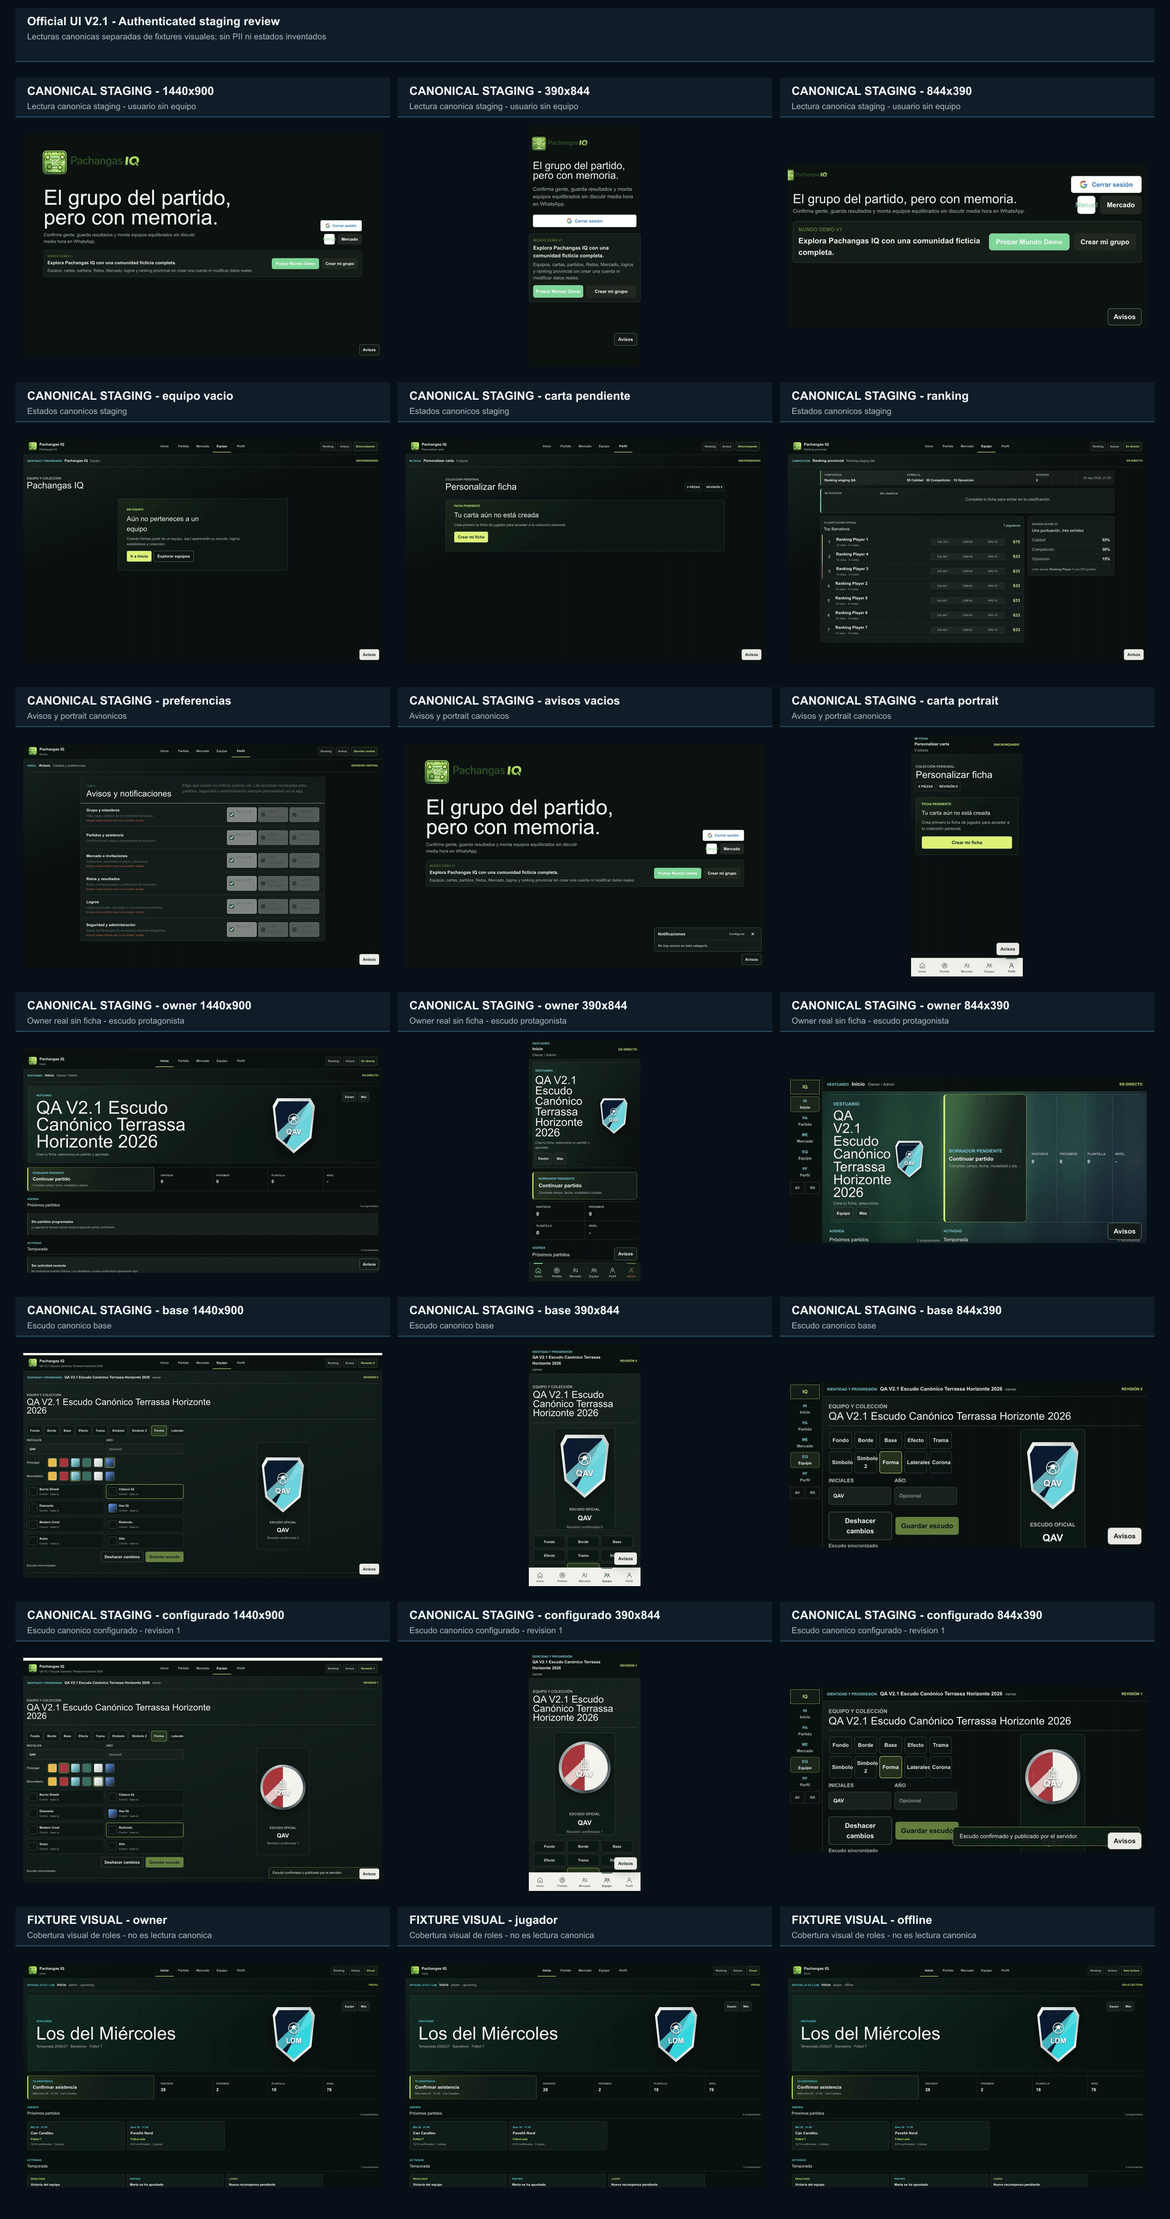
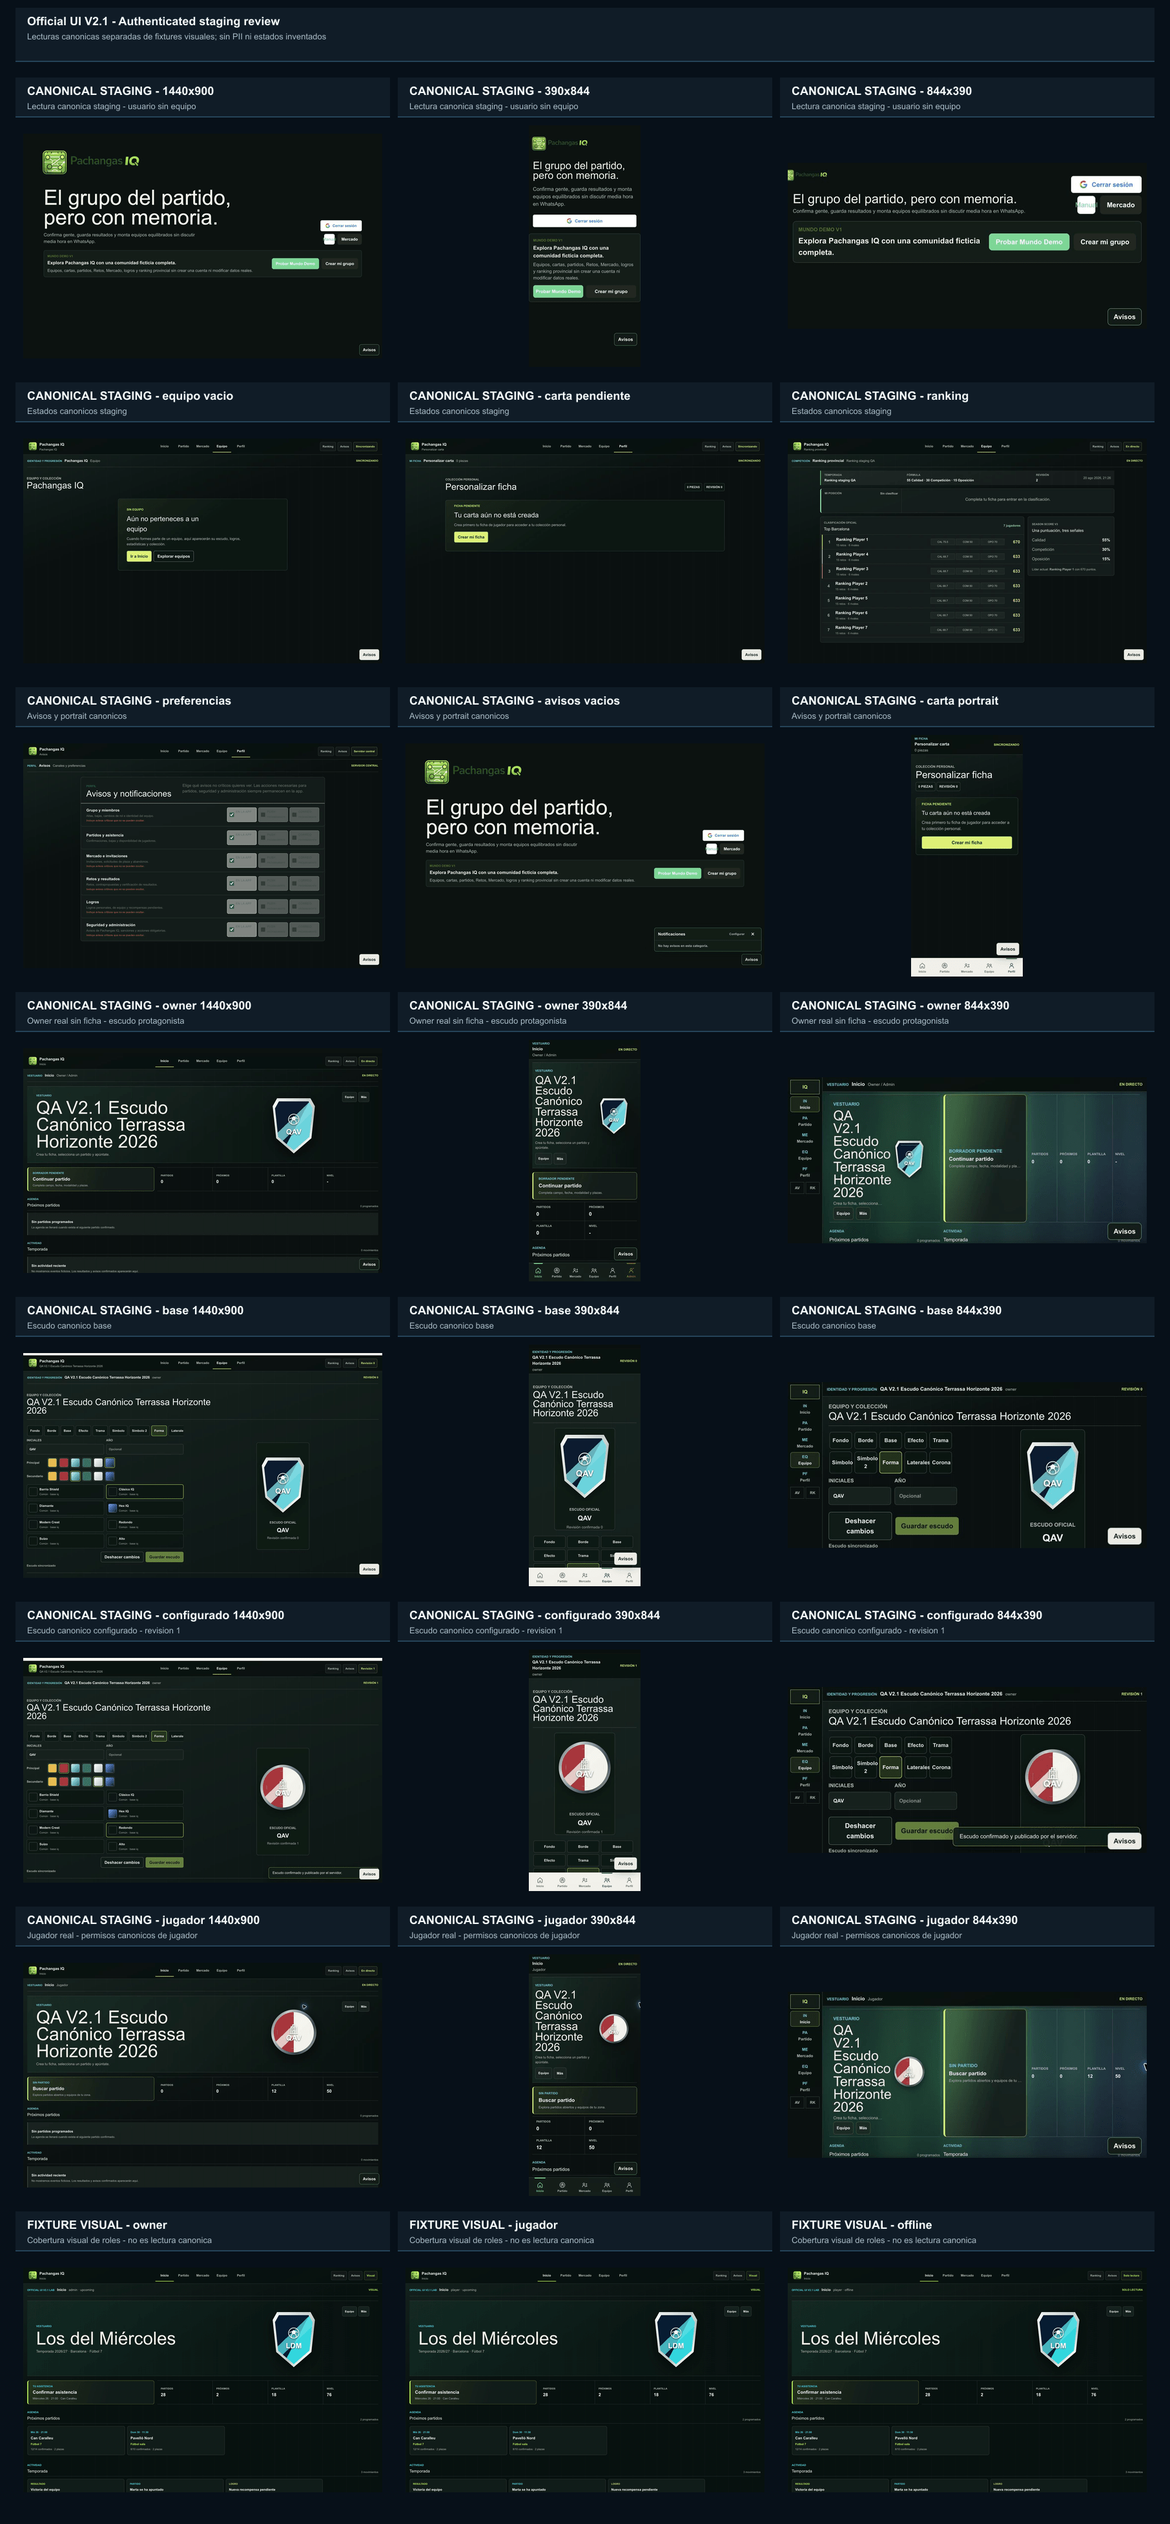
Complete Official UI V2.1 canonical player QA

diff --git a/OFFICIAL_UI_V2_1_AUTHENTICATED_QA_REPORT.md b/OFFICIAL_UI_V2_1_AUTHENTICATED_QA_REPORT.md
@@ -10,8 +10,8 @@
 - Stable OAuth Preview:
   `https://pachangas-git-codex-offic-85e5c1-persianas-almar-web-s-projects.vercel.app`.
 - Exact validated deployment:
-  `https://pachangas-lkbg8mbv1-persianas-almar-web-s-projects.vercel.app`
-  (`dpl_4B2WHBUBhZLkJubHTqKop5R5KWRK`).
+  `https://pachangas-6r1p3rqn6-persianas-almar-web-s-projects.vercel.app`
+  (`dpl_A4QJjWdzm6e21dwC3kC7dYnDrdNE`).
 - Production: not modified.
 - R4A PR #162: not modified.
 
@@ -70,10 +70,10 @@ The final menu regression is covered in `tests/official-ui-v2-1.test.ts`.
 | Base team shield | PASS | canonical snapshot revision 0; three viewports |
 | Configured team shield | PASS | canonical snapshot revision 1; three viewports |
 | Owner with profile | BLOCKED_EXISTING_RATING_V2_ONBOARDING | server rejected the first assessment before profile creation |
-| Normal player | PENDING_SECOND_IDENTITY | no synthetic membership or fabricated PASS |
+| Normal player | PASS | second Google actor joined through the official invitation flow and read back as `Jugador` |
 | Long team name | PASS | canonical owner Home |
 | Wide roster | PASS | 12 QA player rows created through the official UI |
-| Several upcoming/closed matches | PENDING | not manufactured after the onboarding blocker |
+| Several upcoming/closed matches | BLOCKED_PREVIEW_GOOGLE_PLACES_SELECTION | official venue form returned no selectable prediction, so save remained disabled; no direct fixture write used |
 
 The configured shield was saved through the existing authoritative product
 flow and read back from the server. No reward, inventory or production cosmetic
@@ -104,11 +104,13 @@ with-profile row remains blocked until Rating V2 is corrected in its own scope.
 
 - Owner controls and private Team Access: canonical PASS.
 - Owner shield editing: canonical PASS.
-- Player controls absent for a normal member: fixture/regression PASS,
-  canonical `PENDING_SECOND_IDENTITY`.
-- A second actor must authenticate and accept the real invitation before the
-  player row can become PASS. Device verification or browser reconnection must
-  not be replaced by direct membership writes.
+- Second Google identity and normal-player membership: canonical PASS.
+- The OAuth return completed the existing invitation through the official
+  product path; canonical readback reported `Jugador`, never owner/admin.
+- Player invitation, deletion, match administration, Market configuration and
+  shield editing controls: absent. Team selector, role and read-only shield:
+  present.
+- No direct membership write or synthetic role override was used.
 
 ## Defects Closed In This Gate
 
@@ -124,12 +126,12 @@ in commit `d1b44b4490f943a0e4f0792a392e0380ef845589`, and covered by regression.
 
 ## Visual Evidence
 
-There are 18 canonical staging captures in total: nine prior no-team/no-profile
-captures and nine new owner/shield captures. The new set has exact dimensions
-`1440x900`, `390x844` and `844x390`, no horizontal overflow and no broken shield
-image. The earlier nine-capture set retained its recorded zero console/error
-result. Console counters were not re-invented for screenshots where a separate
-console audit was not repeated.
+There are 21 canonical staging captures in total: nine prior no-team/no-profile
+captures, nine owner/shield captures and three normal-player captures. The role
+sets have exact dimensions `1440x900`, `390x844` and `844x390`, no observed
+horizontal overflow and no broken shield image. The earlier nine-capture set
+retained its recorded zero console/error result. Console counters were not
+re-invented for screenshots where a separate console audit was not repeated.
 
 The authenticated contact sheet labels canonical staging separately from the
 owner/player/offline fixture row. Fixture images are never presented as server
@@ -138,12 +140,20 @@ readback.
 ## Match, Market, Theme And Orientation
 
 - Match and Market exhaustive fixture/regression matrices: PASS.
-- Owner/player canonical permission comparison in Match and Market:
-  `PENDING_SECOND_IDENTITY`.
+- Normal-player canonical Match: Proximo, Alineacion and Resultado PASS; Admin
+  absent; result mutation controls remain disabled.
+- Owner canonical Match: Admin and match-save controls present as expected.
+- Normal-player canonical Market: Jugadores, Partidos, Retos and Equipos PASS;
+  admin configuration and Referees absent.
+- Owner Market remains in its public sections because there is no saved active
+  match to configure. The canonical match fixture could not be created while
+  the Preview Places selector returned no selectable prediction.
 - Default dark theme for the canonical actor: PASS.
-- Explicit light/dark persistence: regression PASS; second-actor canonical
-  replay pending.
-- Portrait, landscape and portrait layouts: canonical viewport captures PASS.
+- Explicit light/dark persistence: regression PASS. The canonical actors have
+  no PlayerProfile because of the documented Rating V2 onboarding blocker, so
+  the profile-scoped theme control cannot be replayed without bypassing it.
+- Portrait, landscape and portrait layouts: canonical viewport captures PASS;
+  the second actor retained Market Partidos plus the selected day and modality.
 - Same-page state retention and absence of duplicate sporting writes:
   regression PASS.
 
@@ -166,13 +176,23 @@ Browser emulation is not reported as an installed PWA or a physical device.
 
 - Supabase production, Vercel production and production OAuth: not modified.
 - Supabase schema, migration, SQL, RPC and RLS paths changed by this gate: 0.
-- Staging product fixture: one clearly named QA team, 12 QA players and shield
-  revision 1, all created through product flows.
+- Staging product fixture used for QA: one clearly named QA team, 12 QA players
+  and shield revision 1, all created through product flows and removed at the
+  end of the gate.
 - Rating, rewards, Conduct and billing fixture mutations: 0.
-- Pending invitation and QA team cleanup: PENDING while the required
-  second-identity flow remains open. Destructive removal must use the official
-  product action and explicit confirmation; no direct table deletion is used.
+- Pending invitation: none; it was consumed by the official second-identity
+  flow.
+- QA team cleanup: PASS through the official owner delete action. The post-delete
+  canonical reload showed no team selector, owner role, delete control or QA
+  team. Both temporary sessions were signed out.
 - Pending sporting/offline operations: 0.
+- Remaining QA team/player fixture rows in staging: 0 after owner deletion.
+
+The wide-match row is not presented as a product PASS. The official create-field
+surface accepted the QA search text but never produced a selectable Google
+Places prediction; `Guardar campo` stayed disabled, which also prevented a
+canonical saved match. No RPC, table or local payload was used to bypass this
+guard.
 
 ## Closing Gates
 

diff --git a/OFFICIAL_UI_V2_1_FINAL_HUMAN_REVIEW_REPORT.md b/OFFICIAL_UI_V2_1_FINAL_HUMAN_REVIEW_REPORT.md
@@ -11,7 +11,7 @@ DRAFT and unmerged. Production is not authorized by this gate.
 - Stable OAuth Preview:
   `https://pachangas-git-codex-offic-85e5c1-persianas-almar-web-s-projects.vercel.app`.
 - Exact validated deployment:
-  `https://pachangas-lkbg8mbv1-persianas-almar-web-s-projects.vercel.app`.
+  `https://pachangas-6r1p3rqn6-persianas-almar-web-s-projects.vercel.app`.
 
 The evidence commit SHA and its deployment are recorded in the PR body after
 the closing push.
@@ -27,17 +27,17 @@ the closing push.
 | Base shield | PASS, canonical revision 0 |
 | Configured shield | PASS, canonical revision 1 |
 | Owner with profile | BLOCKED_EXISTING_RATING_V2_ONBOARDING |
-| Normal player | PENDING_SECOND_IDENTITY |
+| Normal player | PASS, second Google identity and canonical `Jugador` readback |
 | 12-player roster | PASS through official UI |
-| Several canonical matches/results | PENDING |
+| Several canonical matches/results | BLOCKED_PREVIEW_GOOGLE_PLACES_SELECTION |
 | Installed standalone Preview | PENDING |
 | Physical Android | PENDING |
 | Physical iPhone | PENDING |
 
 The Rating V2 blocker is a circular ordering between initial assessment
 persistence and profile creation. It is documented, not repaired or bypassed
-inside this visual PR. The player result is likewise not fabricated without a
-second authenticated actor.
+inside this visual PR. The player result comes from a second authenticated
+Google actor and canonical role readback, not from a fabricated membership.
 
 ## Requested Delivery Matrix
 
@@ -47,7 +47,7 @@ second authenticated actor.
 | 2 | Initial HEAD | `a1b6f5223f6d2ec70e390073aa2a030755732b28` |
 | 3 | Final HEAD | closing evidence commit in PR #163 |
 | 4 | Stable Preview | URL above |
-| 5 | Exact deployment | `pachangas-lkbg8mbv1-...vercel.app`, deployment `dpl_4B2WHBUBhZLkJubHTqKop5R5KWRK` before evidence-only push |
+| 5 | Exact deployment | `pachangas-6r1p3rqn6-...vercel.app`, deployment `dpl_A4QJjWdzm6e21dwC3kC7dYnDrdNE` before the player-evidence push |
 | 6 | Node tests | 20/20 PASS |
 | 7 | TSX tests | 354/354 PASS |
 | 8 | Canonical total | 374/374 PASS |
@@ -57,19 +57,19 @@ second authenticated actor.
 | 12 | Base shield | canonical PASS, revision 0 |
 | 13 | Configured shield | canonical PASS, revision 1 |
 | 14 | Owner with profile | BLOCKED_EXISTING_RATING_V2_ONBOARDING |
-| 15 | Second identity | PENDING_SECOND_IDENTITY |
-| 16 | Normal player | PENDING_SECOND_IDENTITY |
-| 17 | Controls by role | owner PASS; player fixture/regression PASS, canonical pending |
-| 18 | Wide data | long name and 12-player roster PASS; several matches pending |
-| 19 | Match | exhaustive fixture/regression PASS; role-canonical pending |
-| 20 | Market | public/runtime and regression PASS; role-canonical pending |
+| 15 | Second identity | PASS after Google device verification |
+| 16 | Normal player | PASS; official invitation flow returned canonical role `Jugador` |
+| 17 | Controls by role | PASS; owner actions present only for owner, player admin/invite/delete/edit actions absent |
+| 18 | Wide data | long name and 12-player roster PASS; matches blocked because the official Preview venue form returned no selectable Places prediction |
+| 19 | Match | player Proximo/Alineacion/Resultado PASS with Admin absent; owner Admin and save controls present |
+| 20 | Market | player Jugadores/Partidos/Retos/Equipos PASS with admin and Referees absent; owner active-match configuration not reachable without a saved match |
 | 21 | Theme | dark default PASS; explicit persistence regression PASS |
 | 22 | Rotation | canonical viewports and state-retention regression PASS |
 | 23 | Installed PWA | PENDING |
 | 24 | Android | PHYSICAL_QA_PENDING |
 | 25 | iPhone | PHYSICAL_QA_PENDING |
 | 26 | OAuth security | PASS; no secret/token/PII in bundle or evidence |
-| 27 | Staging cleanup | PENDING until second-identity QA ends; no direct DB cleanup |
+| 27 | Staging cleanup | PASS; invitation consumed, team removed through official owner action, clean readback and both temporary sessions signed out |
 | 28 | Canonical contact sheet | UPDATED; canonical and fixture rows labelled |
 | 29 | PR | OPEN / DRAFT / MERGEABLE; body updated after final push |
 | 30 | Production modified | NO |
@@ -88,7 +88,7 @@ second authenticated actor.
 
 ## Approval Boundary
 
-The visual owner/shield slice is reviewable. The PR must not be described as a
-fully closed authenticated release gate until the normal-player case is
-completed or Alberto grants an explicit waiver. The owner-with-profile blocker
-also requires a separate Rating V2 correction before that row can pass.
+The owner/shield and normal-player visual slices are reviewable. The remaining
+authenticated product blocker is owner-with-profile, which requires a separate
+Rating V2 correction before that row can pass. Installed PWA and physical
+Android/iPhone QA remain explicitly pending.

diff --git a/OFFICIAL_UI_V2_1_DEEP_DEMO_PARITY_REPORT.md b/OFFICIAL_UI_V2_1_DEEP_DEMO_PARITY_REPORT.md
@@ -49,11 +49,18 @@ The stable Preview uses staging OAuth and Supabase project
 - long team name: PASS;
 - 12-player QA roster created through the official UI: PASS.
 
+Several upcoming and closed matches remain
+`BLOCKED_PREVIEW_GOOGLE_PLACES_SELECTION`. The official create-field form
+accepted the QA search text but returned no selectable Google Places prediction,
+so `Guardar campo` and then `Guardar partido` stayed disabled. No direct API,
+table or local-payload fixture was used to manufacture this state.
+
 Owner with profile is `BLOCKED_EXISTING_RATING_V2_ONBOARDING`: the current SQL
 orders profile creation before inserting the initial assessment while the
 profile gate requires that assessment. No Rating code or database state was
-changed to hide the blocker. Normal-player QA remains
-`PENDING_SECOND_IDENTITY` and no direct membership write was used.
+changed to hide the blocker. Normal-player QA is PASS: a second Google actor
+completed device verification and the official invitation flow returned role
+`Jugador`. No direct membership write or role override was used.
 
 ## Canonical Navigation Defect Closed
 
@@ -70,10 +77,10 @@ redesigned.
 ## Visual Evidence
 
 The prior canonical no-team set contains nine sanitized captures. The owner and
-shield pass adds nine more at `1440x900`, `390x844` and `844x390`, for 18
-canonical staging captures total. The current authenticated contact sheet
-separates these rows from the explicitly labelled fixture owner/player/offline
-row.
+shield pass adds nine more, and the real normal-player pass adds three at
+`1440x900`, `390x844` and `844x390`, for 21 canonical staging captures total.
+The current authenticated contact sheet separates these rows from the
+explicitly labelled fixture owner/player/offline row.
 
 The new owner/shield images show no horizontal overflow or broken shield image.
 The pre-existing exhaustive fixture matrix still covers 16 product surfaces and
@@ -111,13 +118,15 @@ The retained set consists of final contact sheets, compact machine-readable
 matrices and representative captures. No email, personal name, cookie, token,
 invitation URL, service key or internal group identifier is committed.
 
-Staging currently retains the QA team, 12 QA players and its pending invitation
-because second-identity QA is not complete. Cleanup remains pending and must use
-the official product action with explicit destructive confirmation.
+The invitation was consumed by the official flow. The QA team, its 12 QA
+players and normal-player membership were then removed through the official
+owner delete action. A canonical reload showed no team selector, owner role or
+QA team, and both temporary sessions were signed out. No direct database
+deletion was used.
 
 ## Gate
 
-PR #163 stays OPEN and DRAFT. The owner/shield visual slice is ready for Alberto
-to inspect, but the overall authenticated gate is not fully closed: normal
-player, owner-with-profile, installed PWA and physical devices remain pending or
-blocked as stated above. Merge and production deployment are not authorized.
+PR #163 stays OPEN and DRAFT. The owner/shield and normal-player slices are
+ready for human review. Owner-with-profile remains blocked by the existing
+Rating V2 onboarding order; installed PWA and physical devices remain pending.
+Merge and production deployment are not authorized.

diff --git a/docs/official-ui-v2-1/captures/canonical-role-final/matrix.md b/docs/official-ui-v2-1/captures/canonical-role-final/matrix.md
@@ -1,4 +1,4 @@
-# Official UI V2.1 Canonical Owner And Shield Matrix
+# Official UI V2.1 Canonical Owner, Player And Shield Matrix
 
 Captured on 2026-08-23 against the stable Vercel Preview and Supabase staging.
 The fixture was created and updated through official product UI/API/RPC paths.
@@ -16,6 +16,9 @@ is included in this evidence.
 | Configured shield, revision 1 | 1440x900 | PASS | 0 | 0 |
 | Configured shield, revision 1 | 390x844 | PASS | 0 | 0 |
 | Configured shield, revision 1 | 844x390 | PASS | 0 | 0 |
+| Normal player Home | 1440x900 | PASS | 0 | 0 |
+| Normal player Home | 390x844 | PASS | 0 | 0 |
+| Normal player Home | 844x390 | PASS | 0 | 0 |
 
 Additional canonical outcomes:
 
@@ -24,9 +27,23 @@ Additional canonical outcomes:
 - player card is not used as the team shield: PASS;
 - 12-player roster created through the official UI: PASS;
 - owner with profile: `BLOCKED_EXISTING_RATING_V2_ONBOARDING`;
-- normal player: `PENDING_SECOND_IDENTITY`;
+- second Google identity and normal player: PASS;
+- player role readback: `Jugador`, never owner/admin;
+- player owner/admin controls: absent;
+- player Team Access: role and selector visible, invitation and deletion controls absent;
+- player Match navigation: Proximo, Alineacion and Resultado PASS; Admin absent;
+- player Market navigation: Jugadores, Partidos, Retos and Equipos PASS; admin
+  configuration and Referees absent;
+- portrait to landscape to portrait: selected Market tab and filters retained;
+- wide canonical match/result data: `BLOCKED_PREVIEW_GOOGLE_PLACES_SELECTION`;
+  the official venue form accepted text but returned no selectable Places
+  prediction, so `Guardar campo` and consequently `Guardar partido` remained
+  disabled. No direct fixture write was used;
+- staging cleanup: PASS through the official owner delete action; post-delete
+  readback showed no team selector, owner role or QA team, and both temporary
+  sessions were closed;
 - installed PWA and physical devices: PENDING.
 
 The prior no-team canonical matrix remains in
-`../authenticated-staging-final/matrix.md`. Together both sets contain 18
+`../authenticated-staging-final/matrix.md`. Together both sets contain 21
 canonical staging captures.
